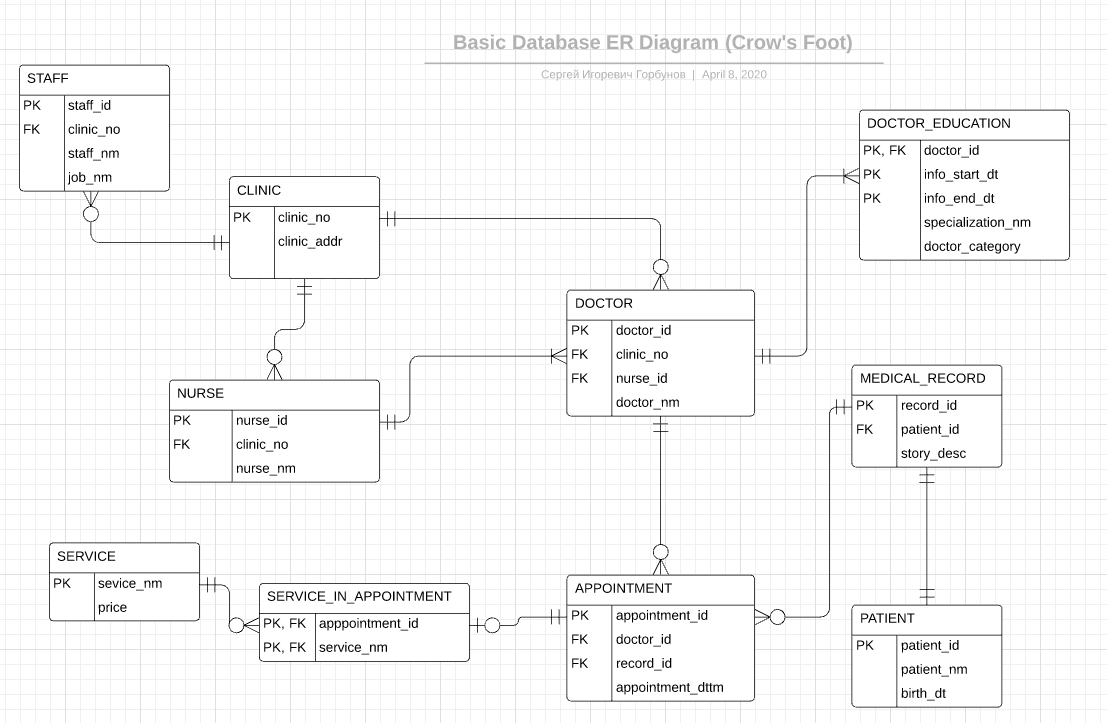
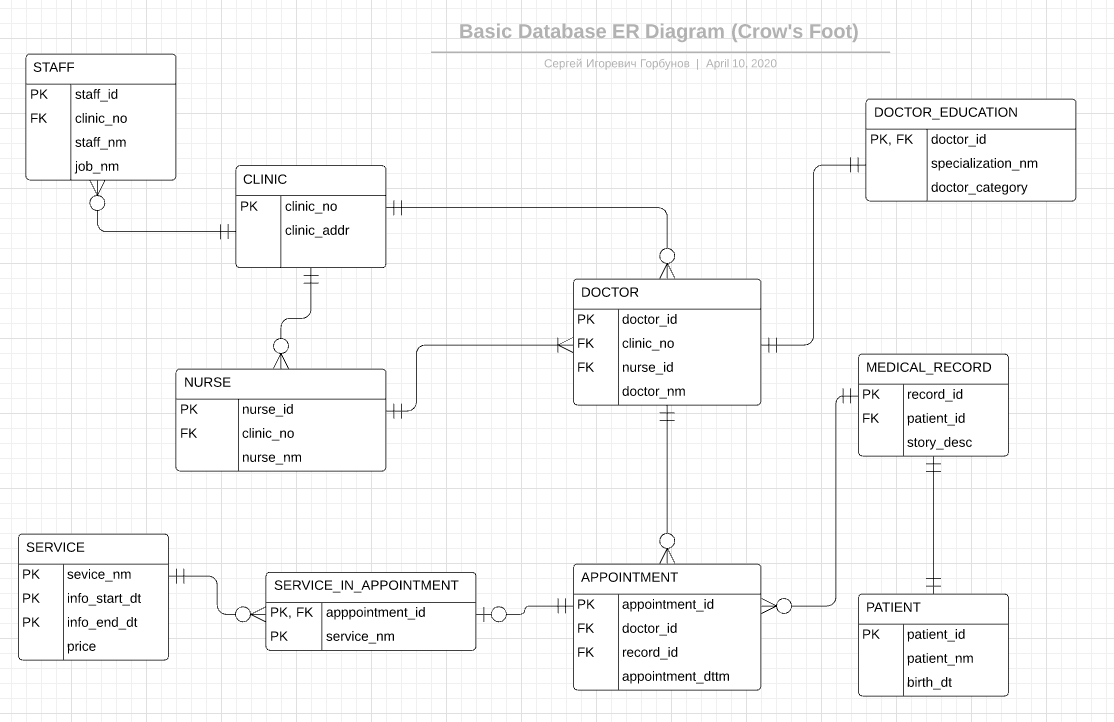
Change tables' versioning concept

diff --git a/README.md b/README.md
@@ -32,4 +32,4 @@
 
 ### Версионность
 
-Таблица `DOCTOR_EDUCATION` является версионной, поскольку врач может не только проходить курсы повышения квалификации, но и примерно каждые 5 лет подтверждать/повышать/понижать свою категорию. Эта информация может оказаться полезной, если работодатель захочет найти сотрудников, которые много лет профессионально не развиваются или, ещё хуже, развиваются в обратную сторону. Версионность достигается путём использования `SCD` типа 2: имеется информация и промежуток времени, в течение которого она является актуальной.
+Таблица `SERVICE` является версионной, поскольку стоимость различных услуг с течением времени может меняться (инфляция, смена поставщика расходных материалов и так далее). В свою очередь, для каждого приёма мы храним только его время и список услуг, поэтому нам важно знать, сколько стоила та или иная услуга в определённый момент времени. Версионность достигается путём использования `SCD` типа 2: имеется информация и промежуток времени, в течение которого она является актуальной. Для того, чтобы каждый день не увеличивать дату окончания, мы берём некоторый момент в будущем.
